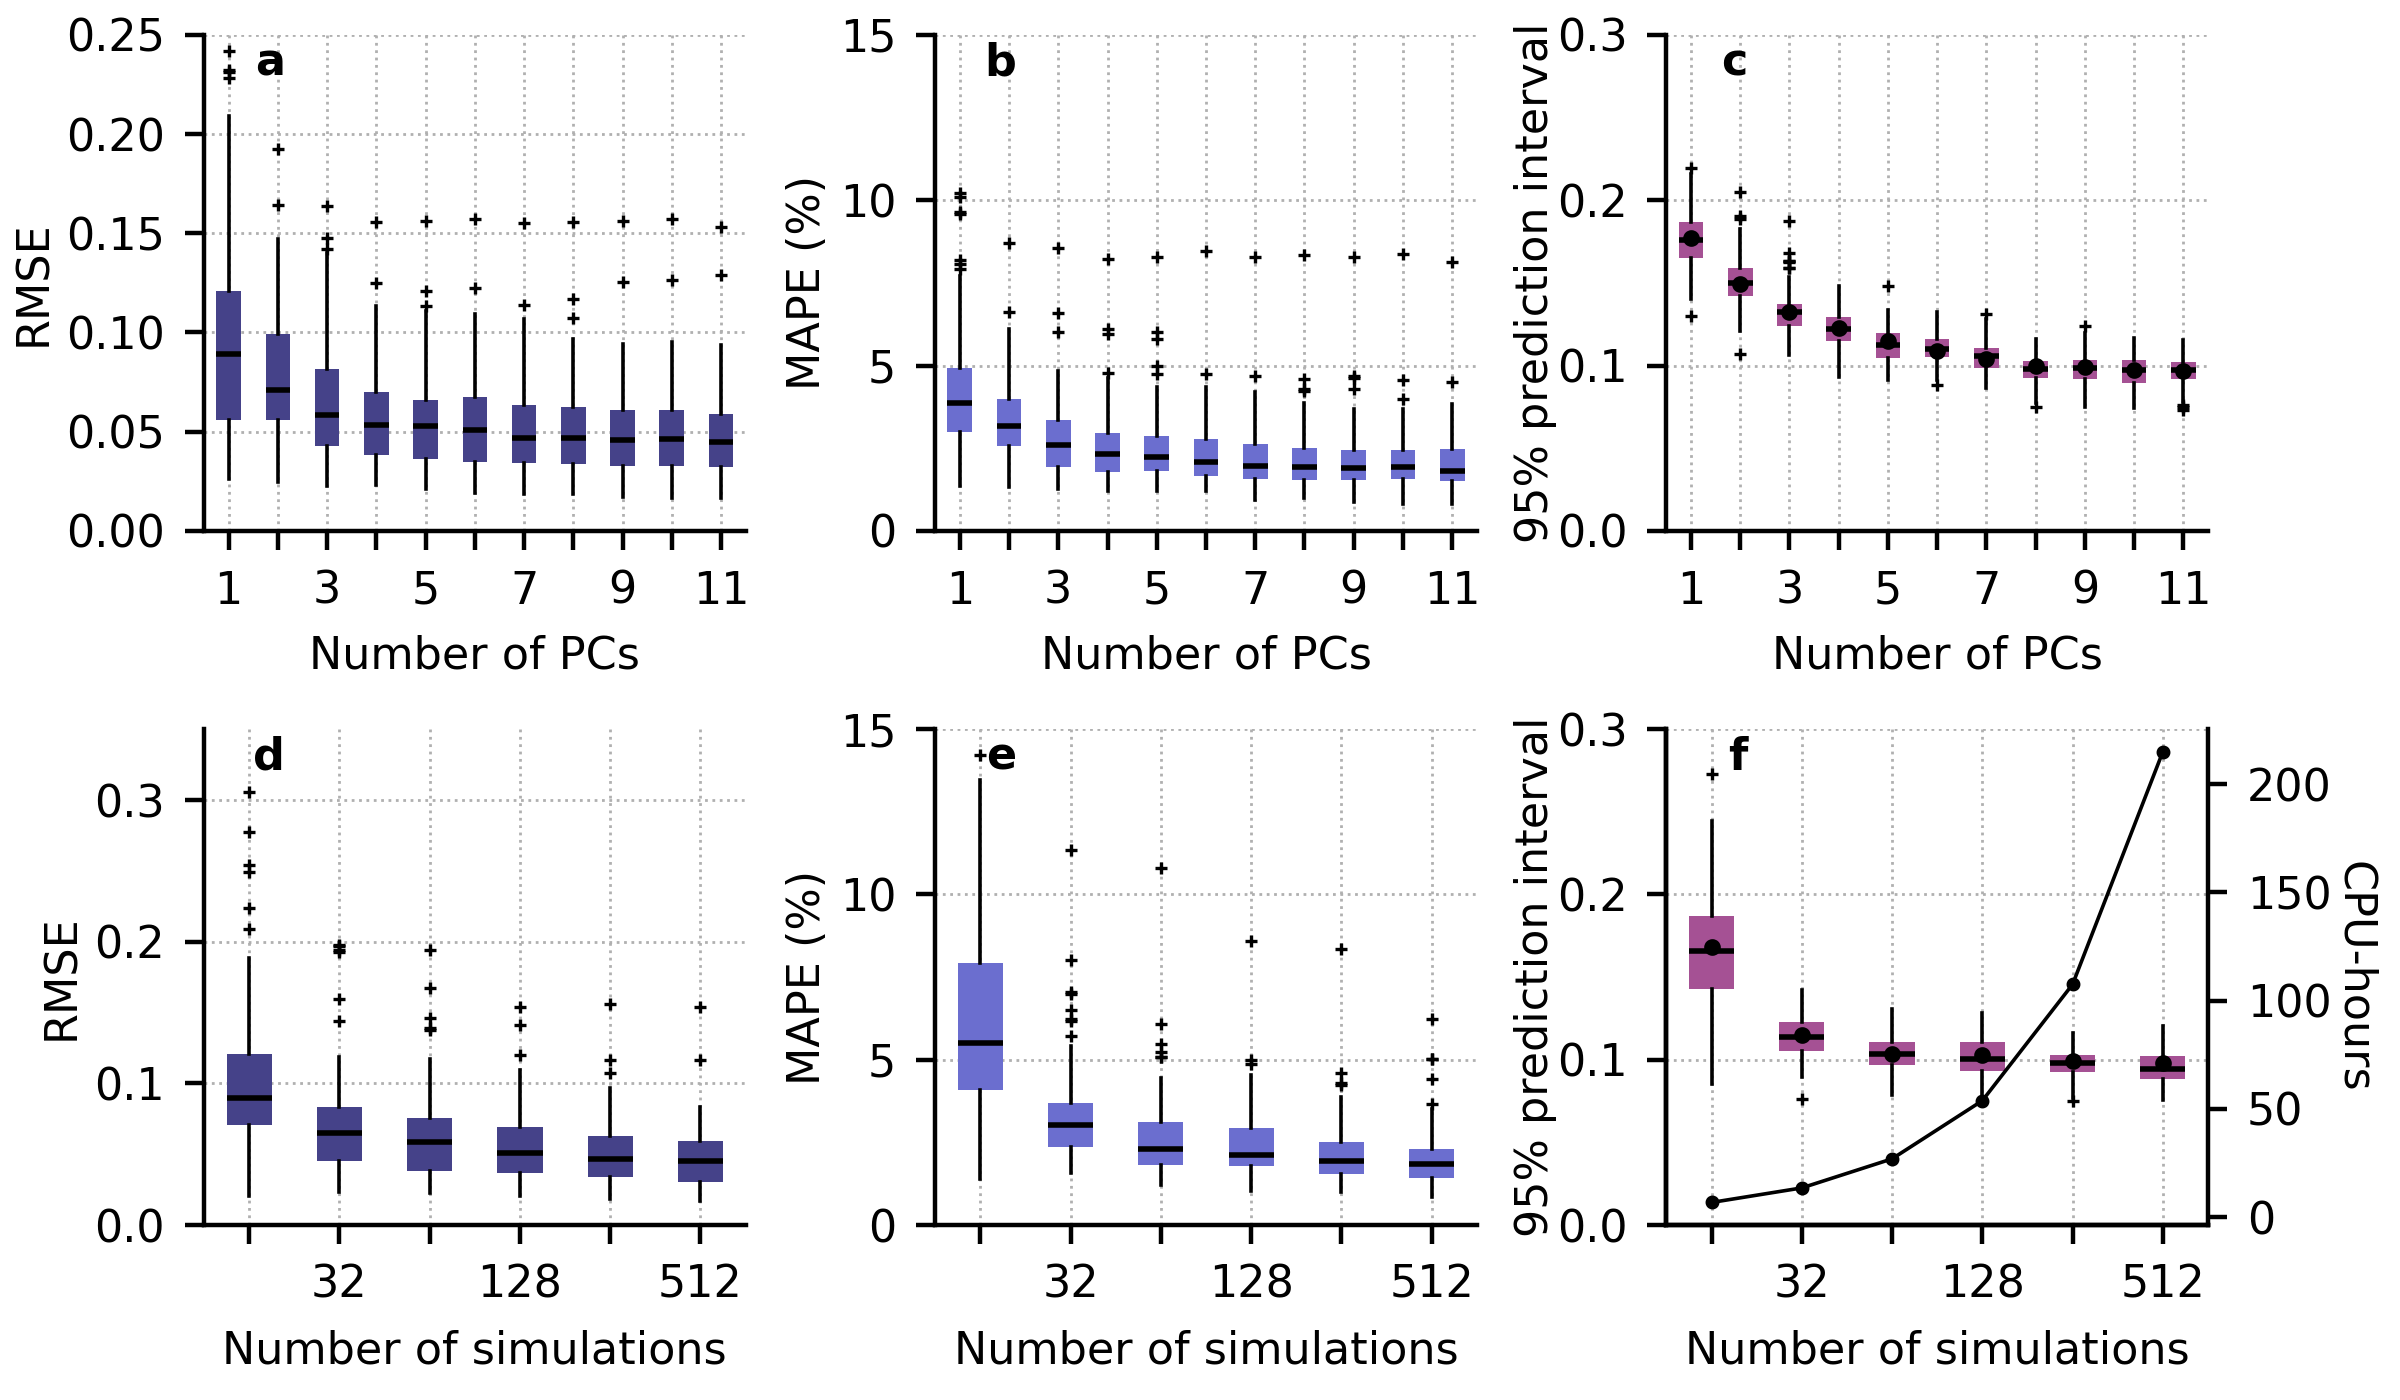
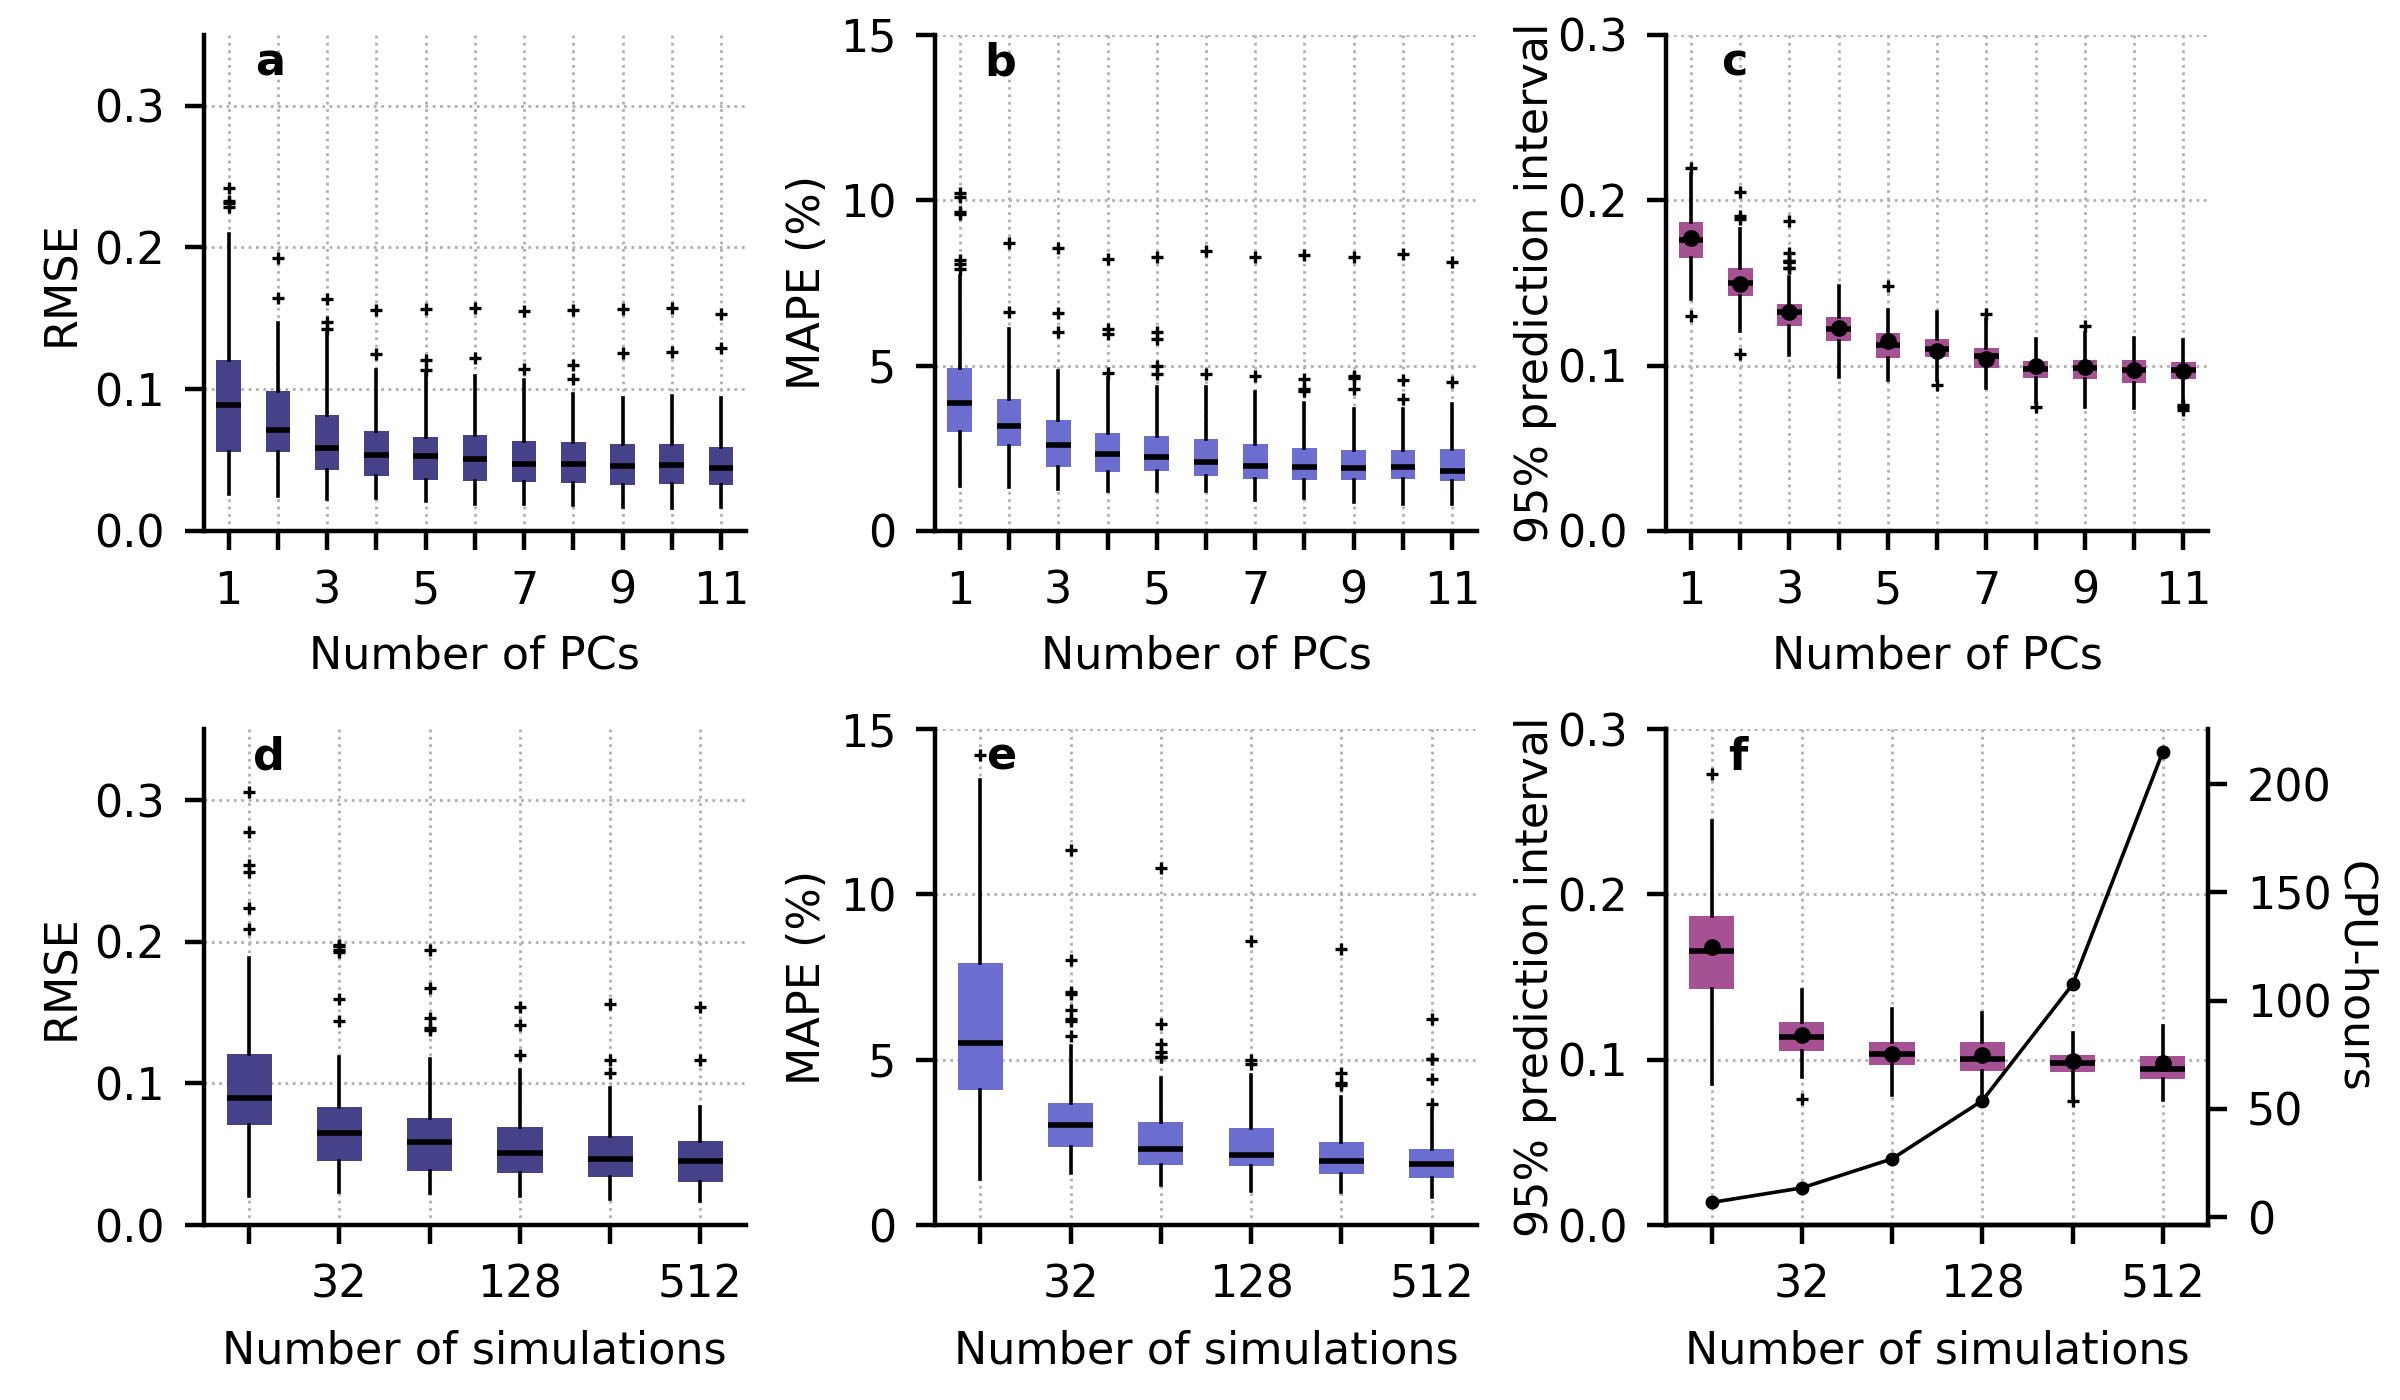
Consistent ylims across panels

diff --git a/experiments/synthetic/analysis/assess_all_models.py b/experiments/synthetic/analysis/assess_all_models.py
@@ -36,6 +36,7 @@ from src.model import load_model
 
 # Settings for consistent boxplots
 flierprops = {'marker':'+', 'markersize':2, 'markeredgewidth':0.6}
+ylims = [(0, 0.35), (0, 15), (0, 0.3)]
 
 def plot_marginal_loss(path, n_sims, n_pcs, m_ref, p_ref):
     """
@@ -109,11 +110,7 @@ def plot_marginal_loss(path, n_sims, n_pcs, m_ref, p_ref):
             medianprops=medianprops, boxprops=boxprops, showcaps=False, showfliers=True,
             flierprops=flierprops, whiskerprops={'linewidth':0.65})
         ax.set_ylabel(labels[i], labelpad=labelpads[i])
-        ymax = np.max(metrics[i])
-        dy = dys[i]
-        upper = dy*np.ceil(ymax/dy)
-        ylim = ax.get_ylim()
-        ax.set_ylim([0, upper])
+        ax.set_ylim(ylims[i])
         ax.text(0.15, 0.9, alphabet[i], transform=ax.transAxes,
             ha='right', va='bottom', fontweight='bold')
         ax.spines[['right', 'top']].set_visible(False)
@@ -157,11 +154,7 @@ def plot_marginal_loss(path, n_sims, n_pcs, m_ref, p_ref):
             medianprops=medianprops, boxprops=boxprops, showcaps=False, showfliers=True,
             flierprops=flierprops, whiskerprops={'linewidth':0.65})
         ax.set_ylabel(labels[i], labelpad=labelpads[i])
-        ymax = np.max(metrics[i])
-        dy = dys[i]
-        upper = dy*np.ceil(ymax/dy)
-        ylim = ax.get_ylim()
-        ax.set_ylim([0, upper])
+        ax.set_ylim(ylims[i])
         ax.text(0.15, 0.9, alphabet[i+3], transform=ax.transAxes,
             ha='right', va='bottom', fontweight='bold')
         
